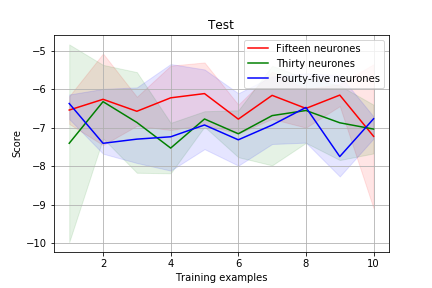
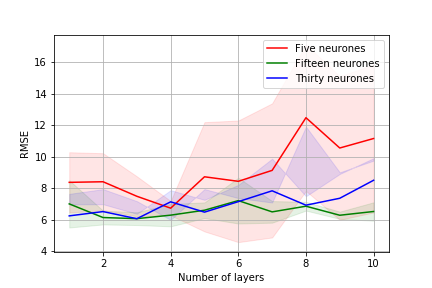
Features MLP

diff --git a/mlp.py b/mlp.py
@@ -8,42 +8,20 @@ from sklearn.model_selection import train_test_split
 from sklearn.neural_network import MLPRegressor
 from sklearn.metrics import mean_squared_error, r2_score
 from sklearn.model_selection import GridSearchCV
+from sklearn.feature_selection import RFECV
 
 #Read test file
 X1=pd.read_csv("X1_t1.csv")
 #column name
 col = list(X1)
+col.pop(-1)
 #Split test file in learning set and test set
 X = X1.drop(col[-1],axis=1).values
 y = X1[col[-1]].values
 
 X_n = normalize(X)
-#clf = MLPRegressor(alpha=0.0001, hidden_layer_sizes = (50,), max_iter = 50000, 
-#                 activation = 'logistic', verbose = 'True', learning_rate = 'adaptive')
-#a = clf.fit(Xtrain, Ytrain)
-#
-#pred_y = clf.predict(Xtest) # predict network output given x_
-#fig = plt.figure() 
-#plt.plot(Xtest, Ytest, color = 'b') # plot original function
-#plt.subplots(1)
-#plt.plot(Xtest, pred_y, '-') # plot network output
 
 mlp = MLPRegressor(max_iter=2000)
-
-#parameter_space = {
-#    'hidden_layer_sizes': [(50,50,50), (50,100,50), (100,)],
-#    'activation': ['tanh', 'relu'],
-#    'solver': ['sgd', 'adam'],
-#    'alpha': [0.0001, 0.05],
-#    'learning_rate': ['constant','adaptive'],
-#}
-#parameter_space = {
-#    'hidden_layer_sizes': [(50,)],
-#    'verbose': ['True'],
-#    'activation': ['logistic'],
-#    'alpha': [0.0001],
-#    'learning_rate': ['adaptive'],
-#}
 
 
 parameter_space = {
@@ -74,13 +52,14 @@ for mean, std, params in zip(means, stds, clf.cv_results_['params']):
  
     
 
-############# NUMBER NEURONS #############  
+#%% NUMBER NEURONS  
 mlp = MLPRegressor(max_iter=2000,solver='lbfgs',activation='relu')
 
+train_sizes = range(1,31)
 NumberNeurons1 = []
 NumberNeurons2 = []
 NumberNeurons3 = []
-for i in range(10,61):
+for i in train_sizes:
     NumberNeurons1.append((i,))
     NumberNeurons2.append((i,)*3)
     NumberNeurons3.append((i,)*5)
@@ -111,52 +90,58 @@ clfNbrN3.fit(X_n, y)
 el = time.time() - f
 print(el)
 
+#print('Best parameters found:\n', clfNbrL1.best_params_)
+#means = -clfNbrL1.cv_results_['mean_test_score']
+#stds = -clfNbrL1.cv_results_['std_test_score']
+#for mean, std, params in zip(means, stds, clfNbrL1.cv_results_['params']):
+#    print("%0.3f (+/-%0.03f) for %r" % (mean, std * 2, params))
+
+
 # Best paramete set
 print('Best parameters found:\n', clfNbrN1.best_params_)
 print('Best parameters found:\n', clfNbrN2.best_params_)
 print('Best parameters found:\n', clfNbrN3.best_params_)
 
 # All results
-means1 = clfNbrN1.cv_results_['mean_test_score']
-stds1 = clfNbrN1.cv_results_['std_test_score']
-means2 = clfNbrN2.cv_results_['mean_test_score']
-stds2 = clfNbrN2.cv_results_['std_test_score']
-means3 = clfNbrN3.cv_results_['mean_test_score']
-stds3 = clfNbrN3.cv_results_['std_test_score']
-train_sizes = means1.shape
+means1 = -clfNbrN1.cv_results_['mean_test_score']
+stds1 = -clfNbrN1.cv_results_['std_test_score']
+means2 = -clfNbrN2.cv_results_['mean_test_score']
+stds2 = -clfNbrN2.cv_results_['std_test_score']
+means3 = -clfNbrN3.cv_results_['mean_test_score']
+stds3 = -clfNbrN3.cv_results_['std_test_score']
 
+#%% PLot
 plt.figure()
-plt.title('Test')
-plt.xlabel("Training examples")
-plt.ylabel("Score")
+plt.xlabel("Number of neurones")
+plt.ylabel("RMSE")
 plt.grid()
-plt.fill_between(range(1,52), means1 - stds1,
+plt.fill_between(train_sizes, means1 - stds1,
                  means1 + stds1, alpha=0.1,
                  color="r")
-plt.fill_between(range(1,52), means2 - stds2,
+plt.fill_between(train_sizes, means2 - stds2,
                  means2 + stds2, alpha=0.1, color="g")
-plt.fill_between(range(1,52), means3 - stds3,
+plt.fill_between(train_sizes, means3 - stds3,
                  means1 + stds3, alpha=0.1,
                  color="b")
-plt.plot(range(1,52), means1, color="r",
+plt.plot(train_sizes, means1, color="r",
          label="One layer")
-plt.plot(range(1,52), means2, color="g",
+plt.plot(train_sizes, means2, color="g",
          label="Three layers")
-plt.plot(range(1,52), means3, color="b",
+plt.plot(train_sizes, means3, color="b",
          label="Five layers")
 plt.legend(loc="best")
-
+plt.savefig('NbrNeurones.png')
     
     
-    
-############# NUMBER LAYERS #############  
+#%% NUMBER LAYERS
 NumberLayers1 = []
 NumberLayers2 = []
 NumberLayers3 = []
-for i in range(1,11):
-    NumberLayers1.append((15,)*i)
-    NumberLayers2.append((30,)*i)
-    NumberLayers3.append((45,)*i)
+train_sizes = range(1,11)
+for i in train_sizes:
+    NumberLayers1.append((5,)*i)
+    NumberLayers2.append((15,)*i)
+    NumberLayers3.append((30,)*i)
     
 parameter_space1 = {
     'hidden_layer_sizes': NumberLayers1,
@@ -188,3 +173,80 @@ print(el)
 print('Best parameters found:\n', clfNbrL1.best_params_)
 print('Best parameters found:\n', clfNbrL2.best_params_)
 print('Best parameters found:\n', clfNbrL3.best_params_)
+
+# All results
+means1 = -clfNbrL1.cv_results_['mean_test_score']
+stds1 = -clfNbrL1.cv_results_['std_test_score']
+means2 = -clfNbrL2.cv_results_['mean_test_score']
+stds2 = -clfNbrL2.cv_results_['std_test_score']
+means3 = -clfNbrL3.cv_results_['mean_test_score']
+stds3 = -clfNbrL3.cv_results_['std_test_score']
+
+#%% PLot
+plt.figure()
+plt.xlabel("Number of layers")
+plt.ylabel("RMSE")
+plt.grid()
+plt.fill_between(train_sizes, means1 - stds1,
+                 means1 + stds1, alpha=0.1,
+                 color="r")
+plt.fill_between(train_sizes, means2 - stds2,
+                 means2 + stds2, alpha=0.1, color="g")
+plt.fill_between(train_sizes, means3 - stds3,
+                 means1 + stds3, alpha=0.1,
+                 color="b")
+plt.plot(train_sizes, means1, color="r",
+         label="Five neurones")
+plt.plot(train_sizes, means2, color="g",
+         label="Fifteen neurones")
+plt.plot(train_sizes, means3, color="b",
+         label="Thirty neurones")
+plt.legend(loc="best")
+plt.savefig('NbrLayers.png')
+
+
+
+
+#%% Test
+mlpFeatures = MLPRegressor(max_iter=2000)
+parameter_space = {
+    'hidden_layer_sizes': [(13,)],
+    'solver' : ['lbfgs'],
+    'activation' :['tanh']
+}
+
+ 
+ 
+f = time.time()
+clfFeatures = GridSearchCV(mlpFeatures, parameter_space, cv=5, scoring = score_function_neg)
+X_best = X_n
+nbrFeatures = 8
+toRemove = None
+BestParams = None
+NotBest = True 
+newCol = col
+clfFeatures.fit(X_n, y)
+minRMS = -clfFeatures.best_score_
+while (NotBest):
+    for i in range(nbrFeatures):
+        X_try = np.delete(X_best,i,1)
+        clfFeatures.fit(X_try, y)
+        print(-clfFeatures.best_score_)
+        if -clfFeatures.best_score_ <= minRMS:
+            minRMS = -clfFeatures.best_score_
+            toRemove = i
+            print(toRemove)
+            BestParams = clfFeatures.best_params_
+    if toRemove == None:
+        NotBest = False
+    else:
+        newCol = np.delete(newCol,toRemove,0)
+        X_best = np.delete(X_best,toRemove,1)
+        nbrFeatures -= 1
+        toRemove = None 
+        
+print(time.time()-f)      
+        
+#%% 
+
+    

diff --git a/main.py b/main.py
@@ -1,52 +1,14 @@
-import numpy as np
-import pandas as pd
-import matplotlib.pyplot as plt
+import tools 
+import methods
 
+#read file
 X1=pd.read_csv("X1_t1.csv")
 
-print(X1.head())
-print(X1.shape)
+#column name
+col = list(X1)
 
-X = X1.drop('ccs',axis=1).values
-y = X1['ccs'].values
-
-
-from sklearn.model_selection import train_test_split
-
-#X_train,X_test,y_train,y_test = train_test_split(X,y,test_size=0.4,random_state=42, stratify=y)
-X_train,X_test,y_train,y_test = train_test_split(X,y,test_size=0.4)
-
-
-#D'autres moyen de normaliser ??????????
-from sklearn.preprocessing import MinMaxScaler
-scaler = MinMaxScaler(feature_range=(0, 1))
-
-x_train_scaled = scaler.fit_transform(X_train)
-x_train = pd.DataFrame(x_train_scaled)
-
-x_test_scaled = scaler.fit_transform(X_test)
-x_test = pd.DataFrame(x_test_scaled)
-
-#import required packages
-from sklearn import neighbors
-from sklearn.metrics import mean_squared_error 
-from math import sqrt
-import matplotlib.pyplot as plt
-#matplotlib inline
-
-#Pq ca change a chaque fois??????????
-rmse_val = [] #to store rmse values for different k
-for K in range(20):
-    K = K+1
-    model = neighbors.KNeighborsRegressor(n_neighbors = K)
-    print(model)
-    model.fit(x_train, y_train)  #fit the model
-    pred=model.predict(x_test) #make prediction on test set
-    error = sqrt(mean_squared_error(y_test,pred)) #calculate rmse
-    rmse_val.append(error) #store rmse values
-    print('RMSE value for k= ' , K , 'is:', error)
-    
-curve = pd.DataFrame(rmse_val) #elbow curve 
-curve.plot()
-
+#Split test file in learning set and test set
+X = X1.drop(col[-1],axis=1).values
+y = X1[col[-1]].values
+X_scaled = tools.normalize(X)
 

diff --git a/knn_regression.py b/knn_regression.py
@@ -1,4 +1,4 @@
-from tools import *
+from tools
 import pandas as pd
 import matplotlib.pyplot as plt 
 from sklearn import neighbors
@@ -17,6 +17,8 @@ from sklearn.model_selection import GridSearchCV
 from sklearn.model_selection import cross_val_score
 import itertools as it
 
+
+
 def linear(X,y):
     regressor = LinearRegression()
       
@@ -28,7 +30,9 @@ def linear(X,y):
     plt.bar(col[:-1], regressor.coef_, width, color="green")
     plt.savefig('coef.png')
     
-    plot_learning_curve(LinearRegression(), 'Test', X, y, cv=5)
+    plot_learning_curve(LinearRegression(), '', X, y, cv=5)
+    plt.savefig('lr.png')
+
 
 def get_k(X_train,X_test,y_train,y_test,max_k):
     rmse_val = [] #to store rmse values for different k
@@ -63,37 +67,7 @@ def get_k(X_train,X_test,y_train,y_test,max_k):
     p = rmse_val.index(min(rmse_val))+1
     return k,p
 
-<<<<<<< HEAD
-def linear(X,y):
-    regressor = LinearRegression()
-      
-    regressor.fit(X, y)  
-    print(regressor.coef_)
-    
-    width = 1/1.5
-    plt.figure(figsize=(10,3))
-    plt.bar(col[:-1], regressor.coef_, width, color="green")
-    plt.savefig('coef.png')
-    
-    plot_learning_curve(LinearRegression(), '', X, y, cv=5).savefig('lr.png')
 
-=======
->>>>>>> adc7edaef85f95001e6bfffa34d7f4f12fe56c01
-#Read test file
-X1=pd.read_csv("X1_t1.csv")
-
-#column name
-col = list(X1)
-
-#Split test file in learning set and test set
-X = X1.drop(col[-1],axis=1).values
-y = X1[col[-1]].values
-
-
-
-linear(X,y)
-X_scaled = normalize(X)
-linear(X_scaled,y)
 #split data
 #X_train,X_test,y_train,y_test = train_test_split(X,y,test_size=0.33, shuffle=False)
 #rmse, k = get_k(X_train,X_test,y_train,y_test,100)

diff --git a/methods.py b/methods.py
@@ -1,0 +1,15 @@
+import tools
+
+def linear(X,y):
+    regressor = LinearRegression()
+      
+    regressor.fit(X, y)  
+    print(regressor.coef_)
+    
+    width = 1/1.5
+    plt.figure(figsize=(10,3))
+    plt.bar(col[:-1], regressor.coef_, width, color="green")
+    plt.savefig('coef.png')
+    
+    plot_learning_curve(LinearRegression(), '', X, y, cv=5)
+    plt.savefig('lr.png')

diff --git a/tools.py b/tools.py
@@ -21,6 +21,8 @@ def score_function_neg(model, X, Y):
     'norm-2 criterion for optimization of models'
     return -np.sqrt(np.mean(((model.predict(X) - Y)) **2, axis=0)).sum()
 
+
+#
 def plot_learning_curve(estimator, title, X, y, ylim=None, cv=None,
                         n_jobs=None, train_sizes=np.linspace(.1, 1.0, 20)):
     """
